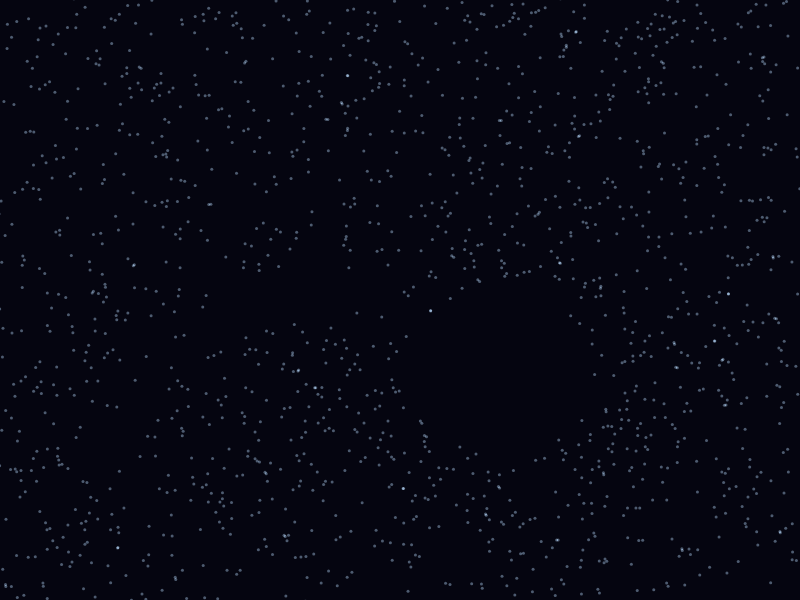
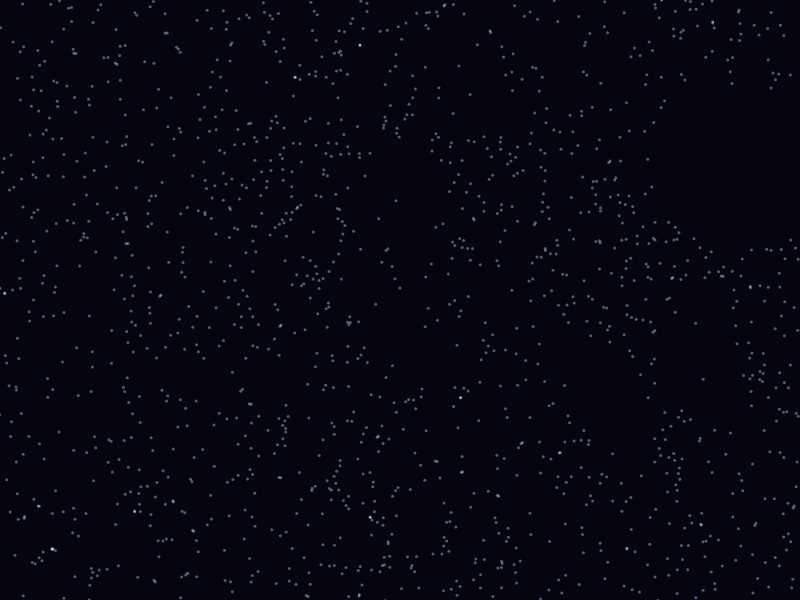
Regenerate screenshots: fractal convergence, rain mouse sweeps
- Fractal wait increased to 42s (5s wander + 35s convergence + buffer)
  so the Sierpinski triangle is fully formed in the screenshot.
- Rain now gets mouse sweeps during capture to produce visible ripple
  clusters instead of a near-empty frame.
- All 15 screenshots regenerated.

diff --git a/scripts/capture-atmospheres.js b/scripts/capture-atmospheres.js
@@ -95,10 +95,23 @@ function serve(dir, port) {
       await page.waitForTimeout(1000);
       await page.evaluate(() => window.scrollTo(0, document.body.scrollHeight));
       await page.waitForTimeout(3000);
+    } else if (variant === 'rain') {
+      await page.waitForTimeout(2000);
+      const rainSweeps = [
+        { x1: 200, y1: 150, x2: 600, y2: 450 },
+        { x1: 600, y1: 100, x2: 200, y2: 500 },
+        { x1: 100, y1: 300, x2: 700, y2: 300 },
+        { x1: 400, y1: 100, x2: 400, y2: 500 },
+      ];
+      for (const s of rainSweeps) {
+        await page.mouse.move(s.x1, s.y1, { steps: 3 });
+        await page.mouse.move(s.x2, s.y2, { steps: 30 });
+      }
+      await page.waitForTimeout(2000);
     } else if (variant === 'roots') {
       await page.waitForTimeout(8000);
     } else if (variant === 'fractal') {
-      await page.waitForTimeout(15000);
+      await page.waitForTimeout(42000);
     } else {
       await page.waitForTimeout(RENDER_MS);
     }
